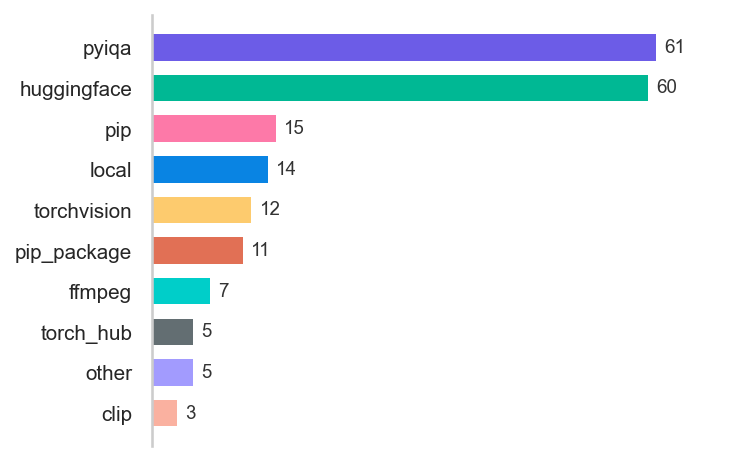
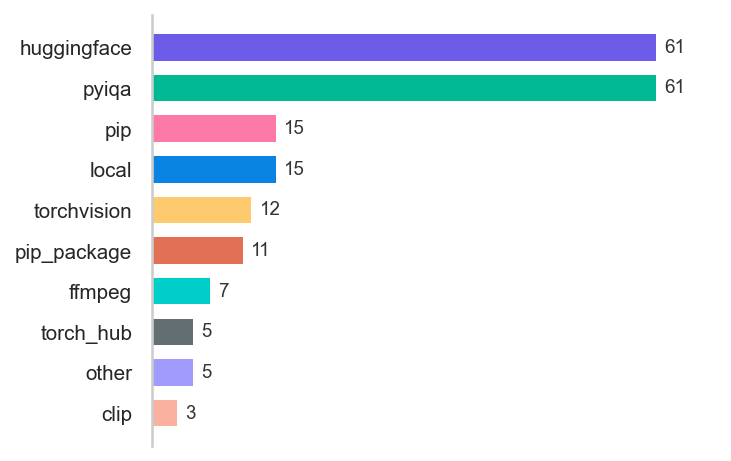
regenerate docs

diff --git a/METRICS.md b/METRICS.md
@@ -1,6 +1,6 @@
 # Ayase Metrics Reference
 
-> **Version 0.1.35** · Generated 2026-05-16 00:21 · **347 modules** · **399 metrics**
+> **Version 0.1.35** · Generated 2026-05-16 03:50 · **347 modules** · **399 metrics**
 >
 > `ayase modules docs -o METRICS.md` to regenerate
 >
@@ -3169,9 +3169,9 @@ Used by: [`knowledge_graph`](src/ayase/modules/knowledge_graph.py), [`usability_
 **[`audio_nisqa`](src/ayase/modules/audio_nisqa.py)** — NISQA multidimensional non-intrusive speech quality (MOS, noisiness, coloration, discontinuity, loudness)
 
 - **Input**: audio · **Speed**: ⏱ medium · GPU
-- **Packages**: librosa, nisqa, soundfile, torch
+- **Packages**: librosa, soundfile, torch
 - **Tests**: covered by [`test_audio_nisqa.py`](tests/modules/per_module/test_audio_nisqa.py)
-- **Config**: `target_sr=16000`, `backend=auto`
+- **Config**: `target_sr=48000`, `backend=auto`
 
 ### `nisqa_discontinuity` [↑](#categories)
 > Discontinuity sub-score
@@ -3179,9 +3179,9 @@ Used by: [`knowledge_graph`](src/ayase/modules/knowledge_graph.py), [`usability_
 **[`audio_nisqa`](src/ayase/modules/audio_nisqa.py)** — NISQA multidimensional non-intrusive speech quality (MOS, noisiness, coloration, discontinuity, loudness)
 
 - **Input**: audio · **Speed**: ⏱ medium · GPU
-- **Packages**: librosa, nisqa, soundfile, torch
+- **Packages**: librosa, soundfile, torch
 - **Tests**: covered by [`test_audio_nisqa.py`](tests/modules/per_module/test_audio_nisqa.py)
-- **Config**: `target_sr=16000`, `backend=auto`
+- **Config**: `target_sr=48000`, `backend=auto`
 
 ### `nisqa_loudness` [↑](#categories)
 > Loudness sub-score
@@ -3189,9 +3189,9 @@ Used by: [`knowledge_graph`](src/ayase/modules/knowledge_graph.py), [`usability_
 **[`audio_nisqa`](src/ayase/modules/audio_nisqa.py)** — NISQA multidimensional non-intrusive speech quality (MOS, noisiness, coloration, discontinuity, loudness)
 
 - **Input**: audio · **Speed**: ⏱ medium · GPU
-- **Packages**: librosa, nisqa, soundfile, torch
+- **Packages**: librosa, soundfile, torch
 - **Tests**: covered by [`test_audio_nisqa.py`](tests/modules/per_module/test_audio_nisqa.py)
-- **Config**: `target_sr=16000`, `backend=auto`
+- **Config**: `target_sr=48000`, `backend=auto`
 
 ### `nisqa_mos` [↑](#categories)
 > Overall predicted MOS
@@ -3199,9 +3199,9 @@ Used by: [`knowledge_graph`](src/ayase/modules/knowledge_graph.py), [`usability_
 **[`audio_nisqa`](src/ayase/modules/audio_nisqa.py)** — NISQA multidimensional non-intrusive speech quality (MOS, noisiness, coloration, discontinuity, loudness)
 
 - **Input**: audio · **Speed**: ⏱ medium · GPU
-- **Packages**: librosa, nisqa, soundfile, torch
+- **Packages**: librosa, soundfile, torch
 - **Tests**: covered by [`test_audio_nisqa.py`](tests/modules/per_module/test_audio_nisqa.py)
-- **Config**: `target_sr=16000`, `backend=auto`
+- **Config**: `target_sr=48000`, `backend=auto`
 
 ### `nisqa_noisiness` [↑](#categories)
 > Noisiness sub-score
@@ -3209,9 +3209,9 @@ Used by: [`knowledge_graph`](src/ayase/modules/knowledge_graph.py), [`usability_
 **[`audio_nisqa`](src/ayase/modules/audio_nisqa.py)** — NISQA multidimensional non-intrusive speech quality (MOS, noisiness, coloration, discontinuity, loudness)
 
 - **Input**: audio · **Speed**: ⏱ medium · GPU
-- **Packages**: librosa, nisqa, soundfile, torch
+- **Packages**: librosa, soundfile, torch
 - **Tests**: covered by [`test_audio_nisqa.py`](tests/modules/per_module/test_audio_nisqa.py)
-- **Config**: `target_sr=16000`, `backend=auto`
+- **Config**: `target_sr=48000`, `backend=auto`
 
 ### `oavqa_score` [↑](#categories)
 > OAVQA omnidirectional AV (higher=better) · ↑ higher=better

diff --git a/MODELS.md b/MODELS.md
@@ -1,12 +1,12 @@
 # Ayase Models Reference
 
-> **Version 0.1.35** · Generated 2026-05-16 00:37 · **193 models** across **10 sources**
+> **Version 0.1.35** · Generated 2026-05-16 03:50 · **195 models** across **10 sources**
 >
 > `ayase modules models -o MODELS.md` to regenerate
 
 ## Summary
 
-**193** models · **60** HuggingFace · **61** pyiqa · **10** sources
+**195** models · **61** HuggingFace · **61** pyiqa · **10** sources
 
 *License labels in this document cover model weights and runtime assets referenced by Ayase modules.*
 *They do not describe the license of Ayase source code or vendored third-party source trees.*
@@ -31,7 +31,7 @@
 
 <a id="categories"></a>
 
-[HuggingFace (43)](#huggingface-models) · [Weight Files (17)](#weight-file-repos) · [pyiqa (61)](#pyiqa-metrics) · [torchvision (12)](#torchvision-models) · [CLIP / OpenCLIP (3)](#clip--openclip) · [torch.hub (5)](#torchhub) · [FFmpeg (7)](#ffmpeg) · [pip Packages (15)](#pip-packages) · [Quick Install Guide](#quick-install-guide)
+[HuggingFace (43)](#huggingface-models) · [Weight Files (18)](#weight-file-repos) · [pyiqa (61)](#pyiqa-metrics) · [torchvision (12)](#torchvision-models) · [CLIP / OpenCLIP (3)](#clip--openclip) · [torch.hub (5)](#torchhub) · [FFmpeg (7)](#ffmpeg) · [pip Packages (15)](#pip-packages) · [Quick Install Guide](#quick-install-guide)
 
 ---
 
@@ -242,6 +242,7 @@
 - `dinov2_vitb14_pretrain.pth` — used by `i2v_similarity`
 - `flownet.pkl` — used by `motion_smoothness`
 - `frames_modelparameters.mat` — used by `brightrate`
+- `nisqa.tar` — used by `audio_nisqa`
 - `onnx_dover.onnx` — used by `dover`
 - `sac+logos+ava1-l14-linearMSE.pth` — used by `aesthetic_scoring`
 
